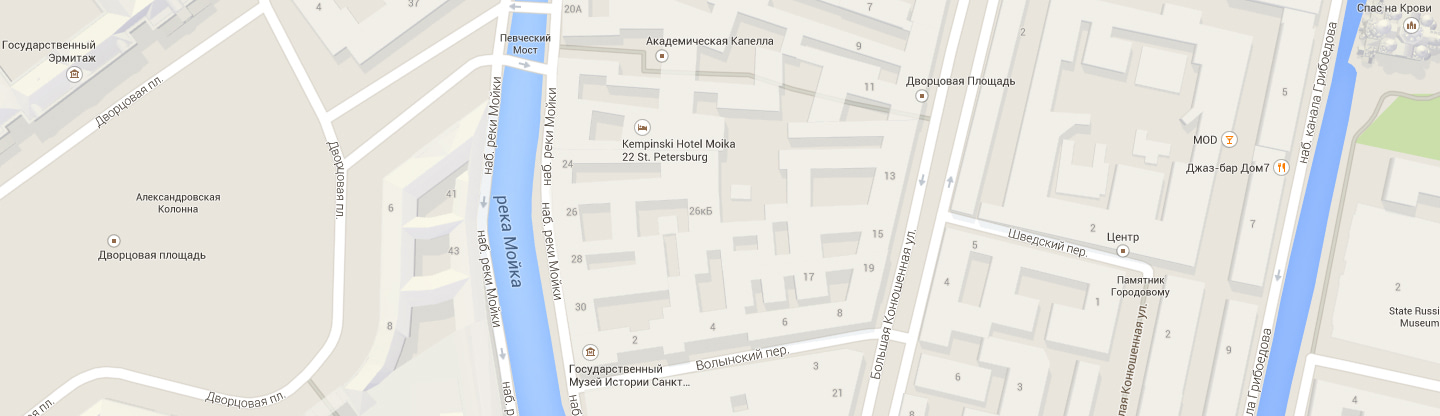
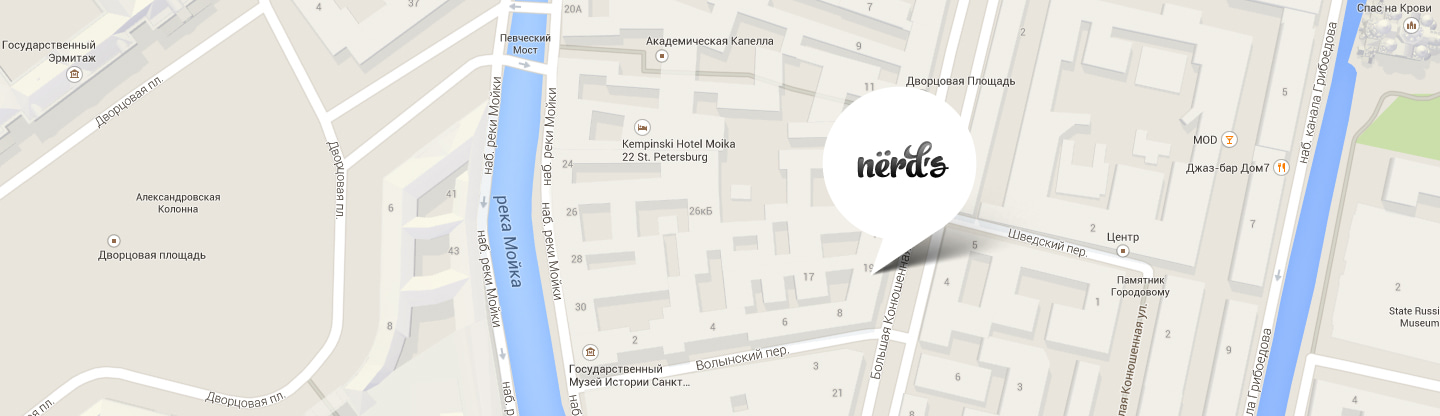
Вшил маркер карты в картинку

Changed region(s): [[0.5625, 0.2188, 0.6875, 0.6562]]

diff --git a/index.html b/index.html
@@ -196,7 +196,6 @@
 
             <p class="contacts__write-us"><a class="button contacts__write-us-link" href="404.html">Напишите нам</a></p>
           </div>
-          <span class="contacts__map-marker"></span>
         </div>
 
         <img class="contacts__map" src="img/map/map.jpg" width="1440" height="416" alt="Адрес дизайн-студии «Nёrds» на ул. Б. Конюшенная, дом 19/8 на карте Санкт-Петербурга.">

diff --git a/css/style.css b/css/style.css
@@ -920,19 +920,6 @@
   object-position: center;
 }
 
-.contacts__map-marker {
-  position: absolute;
-  left: 702px;
-  top: 86px;
-  z-index: 1;
-
-  width: 231px;
-  height: 190px;
-
-  background-image: url("../img/map/map-marker.png");
-  background-repeat: no-repeat;
-}
-
 /**************************/
 /***                    ***/
 /**       SOCIALS        **/
